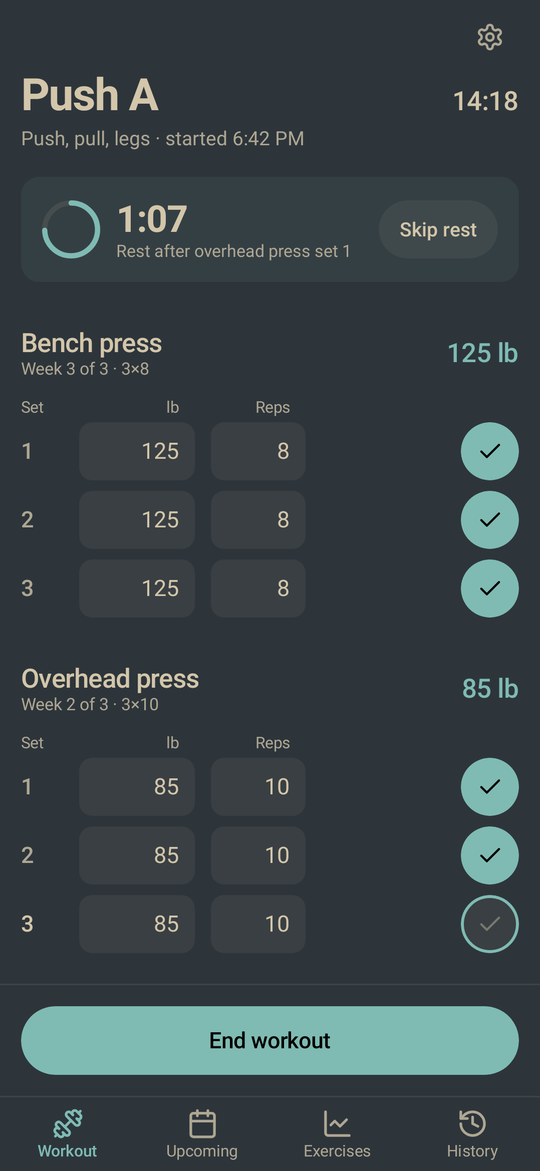
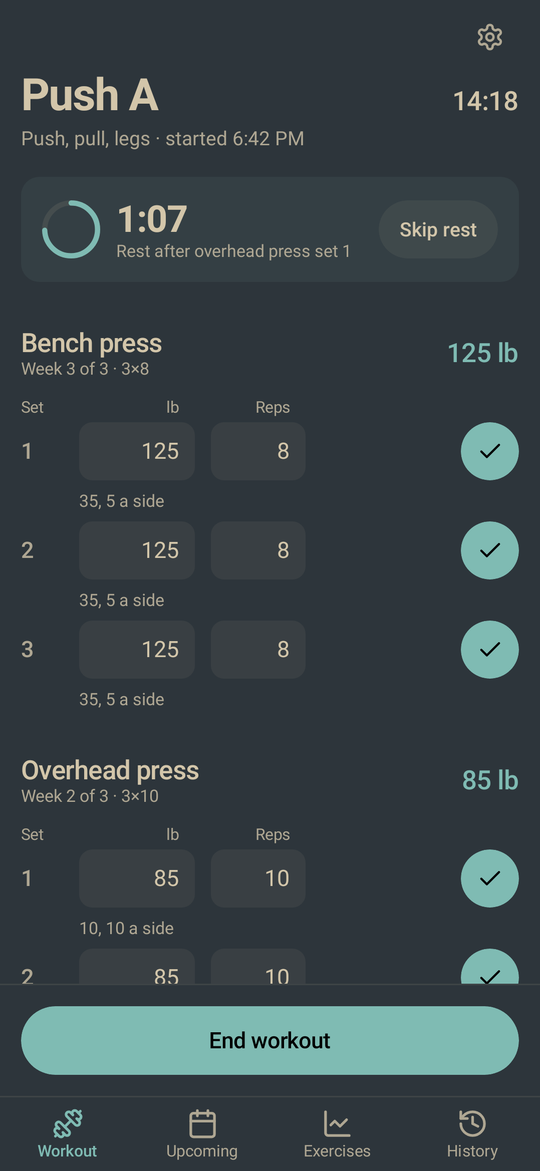
Add plate calculator: bar and plate settings, per-side plates per set, loadable targets
Settings gets a bar weight and pair counts for 55-2.5 lb plates (45 lb bar,
4x45, 35, 25, 2x10, 5, 2.5 by default), stored in device prefs. Barbell lifts
round their shown target to the nearest weight those plates make, and each set
row shows the plates for one side of the weight in its field. Engine state and
the log format are unchanged.

diff --git a/app/src/main/java/dev/gzclp/tracker/ui/Screens.kt b/app/src/main/java/dev/gzclp/tracker/ui/Screens.kt
@@ -54,7 +54,9 @@ import androidx.compose.ui.text.input.ImeAction
 import androidx.compose.ui.text.input.KeyboardType
 import androidx.compose.ui.text.style.TextAlign
 import androidx.compose.ui.unit.dp
+import dev.gzclp.tracker.engine.Catalog
 import dev.gzclp.tracker.engine.Lift
+import dev.gzclp.tracker.engine.Plates
 import dev.gzclp.tracker.engine.Progression
 import dev.gzclp.tracker.engine.Cycle
 import dev.gzclp.tracker.engine.Programs
@@ -196,7 +198,7 @@ fun Exercise.detail(): String =
 fun HomeScreen(state: AppState, onStart: () -> Unit, onSettings: () -> Unit, onEditWeight: (Exercise) -> Unit) {
     val p = LocalPalette.current
     val day = state.nextDay
-    val exercises = state.exercises(day)
+    val exercises = state.exercises(day).map(LocalPlates.current::prescribe)
     val missing = exercises.count { it.weight == null }
     ScreenFrame(bottom = {
         BottomBar { PillButton("Start workout", onStart, Modifier.weight(1f), primary = true) }
@@ -259,7 +261,7 @@ fun WorkoutScreen(
         ) {
             if (rest != null) RestCard(rest, onSkipRest, Modifier.padding(top = Space.xl))
         }
-        val exercises = state.exercises(a.program, a.day)
+        val exercises = state.exercises(a.program, a.day).map(LocalPlates.current::prescribe)
         val next = exercises.firstNotNullOfOrNull { ex -> (1..ex.scheme.sets).map { SetKey(ex.id, ex.tier, it) }.firstOrNull { it !in a.sets } }
         exercises.forEach { ex ->
             Spacer(Modifier.height(Space.x3))
@@ -322,8 +324,9 @@ private fun ExerciseBlock(
         Txt("Reps", Type.caption, Modifier.width(REPS_COL).padding(end = Space.md), p.fg2, align = TextAlign.End)
     }
     Column(verticalArrangement = Arrangement.spacedBy(Space.sm)) {
-        if (warmups && ex.tier == Tier.T1) Warmup.sets(ex.weight ?: 0).forEachIndexed { i, (w, r) ->
-            WarmupRow(state.active?.id.orEmpty(), "${ex.name} warm-up ${i + 1}", w, r)
+        val plates = LocalPlates.current
+        if (warmups && ex.tier == Tier.T1) Warmup.sets(ex.weight ?: 0).map { (w, r) -> plates.round(w) to r }.distinctBy { it.first }.forEachIndexed { i, (w, r) ->
+            WarmupRow(state.active?.id.orEmpty(), "${ex.name} warm-up ${i + 1}", w, r, plates)
         }
         for (i in 1..ex.scheme.sets) {
             val key = SetKey(ex.id, ex.tier, i)
@@ -335,6 +338,7 @@ private fun ExerciseBlock(
                 logged = sets[key]?.event,
                 current = next == key,
                 exName = ex.name,
+                plates = plates.takeIf { ex.id in Catalog.barbell },
                 onLog = { w, r -> onLog(ex, i, w, r) },
                 onClear = { onClear(ex, i) },
             )
@@ -356,6 +360,7 @@ fun SetRow(
     logged: SetLogged?,
     current: Boolean,
     exName: String,
+    plates: Plates?,
     onLog: (weight: Int, reps: Int) -> Unit,
     onClear: () -> Unit,
 ) {
@@ -395,11 +400,12 @@ fun SetRow(
             Icon(Icons.check, if (hit) p.onAccent else if (short) p.red else p.fg3, 20.dp)
         }
     }
+    if (plates != null) Txt(plates.perSideLabel(weight()) ?: "Not loadable with your plates", Type.footnote.tabular(), Modifier.padding(start = SET_COL + Space.md), p.fg2, maxLines = 1)
 }
 
 /** A warm-up: fixed weight and reps, and a check that only lives on screen (never logged). */
 @Composable
-private fun WarmupRow(sessionId: String, name: String, weight: Int, reps: Int) {
+private fun WarmupRow(sessionId: String, name: String, weight: Int, reps: Int, plates: Plates) {
     val p = LocalPalette.current
     var done by rememberSaveable(sessionId) { mutableStateOf(false) }
     Row(Modifier.fillMaxWidth(), verticalAlignment = Alignment.CenterVertically, horizontalArrangement = Arrangement.spacedBy(Space.md)) {
@@ -415,6 +421,7 @@ private fun WarmupRow(sessionId: String, name: String, weight: Int, reps: Int) {
             Icon(Icons.check, if (done) p.accent else p.fg3, 20.dp)
         }
     }
+    plates.perSideLabel(weight)?.let { Txt(it, Type.footnote.tabular(), Modifier.padding(start = SET_COL + Space.md), p.fg3, maxLines = 1) }
 }
 
 fun restLabel(ex: Exercise, setIndex: Int): String =

diff --git a/app/src/main/java/dev/gzclp/tracker/ui/Settings.kt b/app/src/main/java/dev/gzclp/tracker/ui/Settings.kt
@@ -13,6 +13,7 @@ import androidx.compose.ui.Alignment
 import androidx.compose.ui.Modifier
 import androidx.compose.ui.unit.dp
 import dev.gzclp.tracker.engine.Increments
+import dev.gzclp.tracker.engine.Plates
 import dev.gzclp.tracker.engine.ProgramDay
 import dev.gzclp.tracker.engine.Slot
 import dev.gzclp.tracker.log.Commands
@@ -38,6 +39,7 @@ fun SettingsScreen(
     weighInReminder: Boolean,
     weighInMinutes: Int,
     health: HealthUi,
+    plates: Plates,
     onBack: () -> Unit,
     onTheme: (String) -> Unit,
     onRest: (Tier, Int) -> Unit,
@@ -50,6 +52,7 @@ fun SettingsScreen(
     onWeighInReminder: (Boolean) -> Unit,
     onWeighInTime: (Int) -> Unit,
     onHealthConnect: (Boolean) -> Unit,
+    onPlates: (Plates) -> Unit,
     warmups: Boolean = true,
     onWarmups: (Boolean) -> Unit = {},
 ) {
@@ -88,6 +91,27 @@ fun SettingsScreen(
             }
             GroupFooter("Cycle programs add a step each week: 3×12, then 3×10, then 3×8. Lower body covers squat, deadlift, Romanian deadlift, and leg press; everything else uses the upper body step. After a heavy week with every set at 8 or more, the next cycle starts higher by the next-cycle amount.")
         }
+
+        GroupHeader("Bar and plates")
+        Group {
+            GroupRow(first = true) {
+                Txt("Bar", Type.body, Modifier.weight(1f))
+                MiniStep(Icons.minus, "Lighter bar") { onPlates(plates.copy(bar = (plates.bar - 5).coerceAtLeast(5))) }
+                Txt(Fmt.lb(plates.bar), Type.body.tabular(), Modifier.width(72.dp).padding(horizontal = Space.sm), align = androidx.compose.ui.text.style.TextAlign.Center)
+                MiniStep(Icons.plus, "Heavier bar") { onPlates(plates.copy(bar = (plates.bar + 5).coerceAtMost(100))) }
+            }
+            Plates.SIZES.forEach { size ->
+                val n = plates.pairs[size] ?: 0
+                val name = "${Plates.label(size)} lb"
+                GroupRow(first = false) {
+                    Txt("$name plates", Type.body, Modifier.weight(1f), maxLines = 1)
+                    MiniStep(Icons.minus, "One less pair of $name plates") { onPlates(plates.copy(pairs = plates.pairs + (size to (n - 1).coerceAtLeast(0)))) }
+                    Txt(if (n == 1) "1 pair" else "$n pairs", Type.body.tabular(), Modifier.width(72.dp).padding(horizontal = Space.sm), align = androidx.compose.ui.text.style.TextAlign.Center)
+                    MiniStep(Icons.plus, "One more pair of $name plates") { onPlates(plates.copy(pairs = plates.pairs + (size to (n + 1).coerceAtMost(20)))) }
+                }
+            }
+        }
+        GroupFooter("Barbell lifts round each target to the nearest weight this bar and these plates make, and every set shows the plates for one side.")
 
         GroupHeader("Theme")
         Group {

diff --git a/app/src/main/java/dev/gzclp/tracker/MainActivity.kt b/app/src/main/java/dev/gzclp/tracker/MainActivity.kt
@@ -15,6 +15,7 @@ import androidx.activity.result.contract.ActivityResultContracts
 import androidx.compose.foundation.layout.Box
 import androidx.compose.foundation.layout.fillMaxSize
 import androidx.compose.runtime.Composable
+import androidx.compose.runtime.CompositionLocalProvider
 import androidx.compose.runtime.LaunchedEffect
 import androidx.compose.runtime.collectAsState
 import androidx.compose.runtime.getValue
@@ -46,6 +47,7 @@ import dev.gzclp.tracker.ui.UpcomingScreen
 import dev.gzclp.tracker.ui.GzTheme
 import dev.gzclp.tracker.ui.HistoryScreen
 import dev.gzclp.tracker.ui.HomeScreen
+import dev.gzclp.tracker.ui.LocalPlates
 import dev.gzclp.tracker.ui.SettingsScreen
 import dev.gzclp.tracker.ui.SetupScreen
 import dev.gzclp.tracker.ui.Sheet
@@ -66,7 +68,7 @@ class MainActivity : ComponentActivity() {
                 val style = if (palette.dark) SystemBarStyle.dark(Color.TRANSPARENT) else SystemBarStyle.light(Color.TRANSPARENT, Color.TRANSPARENT)
                 enableEdgeToEdge(style, style)
             }
-            GzTheme(palette) { App(model) }
+            GzTheme(palette) { CompositionLocalProvider(LocalPlates provides model.plates) { App(model) } }
         }
         if (savedInstanceState == null) onNewIntent(intent)
     }
@@ -191,7 +193,7 @@ private fun App(model: AppModel) {
                 started = state.started, programId = state.programId, increments = state.increments,
                 themeId = model.theme, laptop = model.laptop, restTargets = model.restTargets,
                 sync = model.sync.copy(error = model.notice ?: model.sync.error), notificationsAllowed = model.notificationsAllowed,
-                weighInReminder = model.weighInReminder, weighInMinutes = model.weighInMinutes, health = model.health,
+                weighInReminder = model.weighInReminder, weighInMinutes = model.weighInMinutes, health = model.health, plates = model.plates,
                 onBack = { route = null }, onTheme = model::chooseTheme, onRest = model::setRest,
                 onProgram = { id -> model.dispatch { Commands.chooseProgram(it, id) } },
                 onIncrements = { inc -> model.dispatch { Commands.setIncrements(it, inc) } },
@@ -201,7 +203,7 @@ private fun App(model: AppModel) {
                     model.chooseWeighInReminder(it)
                     if (it) requestNotifications()
                 },
-                onWeighInTime = model::chooseWeighInTime,
+                onWeighInTime = model::chooseWeighInTime, onPlates = model::choosePlates,
                 warmups = model.warmups, onWarmups = model::chooseWarmups,
                 onHealthConnect = { on ->
                     val unavailable = if (on) model.healthUnavailable() else null

diff --git a/app/src/test/java/dev/gzclp/tracker/ui/ScreenShots.kt b/app/src/test/java/dev/gzclp/tracker/ui/ScreenShots.kt
@@ -6,6 +6,7 @@ import androidx.compose.runtime.Composable
 import androidx.compose.ui.Modifier
 import com.github.takahirom.roborazzi.captureRoboImage
 import dev.gzclp.tracker.engine.Lift
+import dev.gzclp.tracker.engine.Plates
 import dev.gzclp.tracker.engine.Programs
 import dev.gzclp.tracker.engine.Tier
 import dev.gzclp.tracker.log.AppState
@@ -115,8 +116,8 @@ class ScreenShots {
             }
             for (tall in listOf(false, true)) shot(file, if (tall) "12-settings-full" else "12-settings", tall) {
                 SettingsScreen(
-                    true, idle.programId, idle.increments, LaptopTheme.ID, p, rest, SyncUi("GZCLP", "Fri, Oct 30, 7:42 PM", null), false, true, 7 * 60, HealthUi(true, null),
-                    {}, {}, { _, _ -> }, {}, {}, {}, {}, {}, {}, {}, {}, {},
+                    true, idle.programId, idle.increments, LaptopTheme.ID, p, rest, SyncUi("GZCLP", "Fri, Oct 30, 7:42 PM", null), false, true, 7 * 60, HealthUi(true, null), Plates(),
+                    {}, {}, { _, _ -> }, {}, {}, {}, {}, {}, {}, {}, {}, {}, {},
                 )
             }
         }
@@ -176,14 +177,14 @@ class ScreenShots {
             shot(p, "11-session") { SessionScreen(idle, idle.sessions.last(), {}) }
             shot(p, "12-settings") {
                 SettingsScreen(
-                    true, idle.programId, idle.increments, p.id, null, rest, SyncUi("GZCLP", "Fri, Oct 30, 7:42 PM", null), false, true, 7 * 60, HealthUi(true, null),
-                    {}, {}, { _, _ -> }, {}, {}, {}, {}, {}, {}, {}, {}, {},
+                    true, idle.programId, idle.increments, p.id, null, rest, SyncUi("GZCLP", "Fri, Oct 30, 7:42 PM", null), false, true, 7 * 60, HealthUi(true, null), Plates(),
+                    {}, {}, { _, _ -> }, {}, {}, {}, {}, {}, {}, {}, {}, {}, {},
                 )
             }
             shot(p, "12-settings-full", tall = true) {
                 SettingsScreen(
-                    true, idle.programId, idle.increments, p.id, null, rest, SyncUi("GZCLP", "Fri, Oct 30, 7:42 PM", null), false, true, 7 * 60, HealthUi(true, null),
-                    {}, {}, { _, _ -> }, {}, {}, {}, {}, {}, {}, {}, {}, {},
+                    true, idle.programId, idle.increments, p.id, null, rest, SyncUi("GZCLP", "Fri, Oct 30, 7:42 PM", null), false, true, 7 * 60, HealthUi(true, null), Plates(),
+                    {}, {}, { _, _ -> }, {}, {}, {}, {}, {}, {}, {}, {}, {}, {},
                 )
             }
             shot(p, "13-days") { DaysScreen(idle, {}, {}, { _, _ -> }) }

diff --git a/app/src/main/java/dev/gzclp/tracker/engine/Plates.kt b/app/src/main/java/dev/gzclp/tracker/engine/Plates.kt
@@ -1,0 +1,42 @@
+package dev.gzclp.tracker.engine
+
+import kotlin.math.abs
+import kotlin.math.roundToInt
+
+/** A barbell and the plates on hand, in lb. [pairs] maps each plate size in [Plates.SIZES] to how many pairs you have. */
+data class Plates(val bar: Int = 45, val pairs: Map<Double, Int> = DEFAULT) {
+    /** Every loadable total, mapped to the fewest plates per side that make it, heaviest plates first. */
+    private val loads: Map<Int, List<Double>> by lazy {
+        var best = mapOf(bar to emptyList<Double>())
+        for (size in SIZES) repeat(pairs[size] ?: 0) {
+            val next = best.toMutableMap()
+            for ((total, side) in best) {
+                val t = total + (size * 2).roundToInt()
+                val load = side + size
+                val have = next[t]
+                if (have == null || load.size < have.size || load.size == have.size && heavier(load, have)) next[t] = load
+            }
+            best = next
+        }
+        best
+    }
+
+    /** The loadable total nearest [target]; a tie goes to the lighter one. */
+    fun round(target: Int): Int = loads.keys.minWith(compareBy({ abs(it - target) }, { it }))
+
+    /** Plates for one side, heaviest first, or null when [total] can't be loaded. */
+    fun perSide(total: Int): List<Double>? = loads[total]
+
+    companion object {
+        /** Standard lb plates. Every size is a multiple of 2.5, so with a bar in 5 lb steps every total is a whole lb. */
+        val SIZES = listOf(55.0, 45.0, 35.0, 25.0, 15.0, 10.0, 5.0, 2.5)
+        val DEFAULT = mapOf(55.0 to 0, 45.0 to 4, 35.0 to 1, 25.0 to 1, 15.0 to 0, 10.0 to 2, 5.0 to 1, 2.5 to 1)
+
+        /** 45, 2.5. */
+        fun label(size: Double): String = if (size % 1.0 == 0.0) size.toInt().toString() else size.toString()
+
+        /** Both lists sorted heaviest first: true when [a] uses heavier plates at the first place they differ. */
+        private fun heavier(a: List<Double>, b: List<Double>): Boolean =
+            a.zip(b).firstOrNull { (x, y) -> x != y }?.let { (x, y) -> x > y } ?: false
+    }
+}

diff --git a/app/src/test/java/dev/gzclp/tracker/engine/PlatesTest.kt b/app/src/test/java/dev/gzclp/tracker/engine/PlatesTest.kt
@@ -1,0 +1,44 @@
+package dev.gzclp.tracker.engine
+
+import org.junit.Assert.assertEquals
+import org.junit.Assert.assertNull
+import org.junit.Test
+
+class PlatesTest {
+    private val gym = Plates()
+
+    @Test fun perSideUsesHeaviestPlatesFirst() {
+        assertEquals(emptyList<Double>(), gym.perSide(45))
+        assertEquals(listOf(45.0), gym.perSide(135))
+        assertEquals(listOf(45.0, 45.0, 10.0, 2.5), gym.perSide(250))
+        assertEquals(listOf(45.0, 45.0, 45.0, 45.0, 35.0, 25.0, 10.0, 10.0, 5.0, 2.5), gym.perSide(580))
+    }
+
+    @Test fun everyFiveLbStepIsLoadableWithTheDefaults() {
+        for (w in 45..580 step 5) assertEquals("$w lb", w, gym.round(w))
+    }
+
+    @Test fun targetsRoundToTheNearestLoadableWeight() {
+        assertEquals(45, gym.round(35)) // below the bar
+        assertEquals(580, gym.round(700)) // past the plates on hand
+        assertNull(gym.perSide(137))
+        assertEquals(135, gym.round(137))
+        val noSmalls = Plates(pairs = mapOf(45.0 to 2, 10.0 to 1))
+        assertEquals(135, noSmalls.round(140)) // tie between 135 and 145 goes lighter
+        assertEquals(155, noSmalls.round(150 + 3))
+    }
+
+    @Test fun findsALoadGreedyWouldMiss() {
+        // 50 a side: greedy takes a 45 and is stuck; two 25s work.
+        val p = Plates(pairs = mapOf(45.0 to 1, 25.0 to 2))
+        assertEquals(listOf(25.0, 25.0), p.perSide(145))
+        // With a 5 on hand too, the conventional 45 + 5 wins the tie on plate count.
+        assertEquals(listOf(45.0, 5.0), Plates(pairs = mapOf(45.0 to 1, 25.0 to 2, 5.0 to 1)).perSide(145))
+    }
+
+    @Test fun barWeightShiftsEveryLoad() {
+        val p = Plates(bar = 35)
+        assertEquals(listOf(45.0), p.perSide(125))
+        assertEquals(35, p.round(20))
+    }
+}

diff --git a/app/src/main/java/dev/gzclp/tracker/AppModel.kt b/app/src/main/java/dev/gzclp/tracker/AppModel.kt
@@ -10,6 +10,7 @@ import androidx.compose.runtime.mutableStateOf
 import androidx.compose.runtime.setValue
 import androidx.health.connect.client.HealthConnectClient
 import androidx.health.connect.client.records.WeightRecord
+import dev.gzclp.tracker.engine.Plates
 import dev.gzclp.tracker.engine.Tier
 import dev.gzclp.tracker.health.HealthRecords
 import dev.gzclp.tracker.log.AppState
@@ -51,6 +52,8 @@ class AppModel private constructor(private val context: Context) {
         private set
     val palette: Palette get() = if (theme == LaptopTheme.ID) laptop ?: Palettes.jade else Palettes.of(theme)
     var restTargets by mutableStateOf(prefs.restTargets())
+        private set
+    var plates by mutableStateOf(prefs.plates)
         private set
     var sync by mutableStateOf(syncUi())
         private set
@@ -158,6 +161,11 @@ class AppModel private constructor(private val context: Context) {
     fun chooseWarmups(on: Boolean) {
         prefs.warmups = on
         warmups = on
+    }
+
+    fun choosePlates(v: Plates) {
+        prefs.plates = v
+        plates = v
     }
 
     fun chooseWeighInReminder(on: Boolean) {

diff --git a/app/src/main/java/dev/gzclp/tracker/Prefs.kt b/app/src/main/java/dev/gzclp/tracker/Prefs.kt
@@ -1,6 +1,7 @@
 package dev.gzclp.tracker
 
 import android.content.Context
+import dev.gzclp.tracker.engine.Plates
 import dev.gzclp.tracker.engine.Tier
 
 /** Device-local settings. Program data never lives here; it lives in the log. */
@@ -51,6 +52,14 @@ class Prefs(context: Context) {
     var warmups: Boolean
         get() = p.getBoolean("warmups", true)
         set(v) = p.edit().putBoolean("warmups", v).apply()
+
+    var plates: Plates
+        get() = Plates(p.getInt("plate_bar", 45), Plates.SIZES.associateWith { p.getInt("plate_pairs_${Plates.label(it)}", Plates.DEFAULT.getValue(it)) })
+        set(v) {
+            val e = p.edit().putInt("plate_bar", v.bar)
+            v.pairs.forEach { (size, n) -> e.putInt("plate_pairs_${Plates.label(size)}", n) }
+            e.apply()
+        }
 
     var weighInReminder: Boolean
         get() = p.getBoolean("weigh_in_reminder", true)

diff --git a/app/src/main/java/dev/gzclp/tracker/ui/Plates.kt b/app/src/main/java/dev/gzclp/tracker/ui/Plates.kt
@@ -1,0 +1,18 @@
+package dev.gzclp.tracker.ui
+
+import androidx.compose.runtime.staticCompositionLocalOf
+import dev.gzclp.tracker.engine.Catalog
+import dev.gzclp.tracker.engine.Plates
+import dev.gzclp.tracker.log.Exercise
+
+/** The bar and plates set in Settings. */
+val LocalPlates = staticCompositionLocalOf { Plates() }
+
+/** The prescription as loaded: a barbell lift's target rounds to the nearest weight the plates make. The log keeps the engine's weight. */
+fun Plates.prescribe(ex: Exercise): Exercise =
+    if (ex.id in Catalog.barbell && ex.weight != null) ex.copy(weight = round(ex.weight)) else ex
+
+/** "45, 25, 2.5 a side", "Empty bar", or null when the plates can't make [total]. */
+fun Plates.perSideLabel(total: Int): String? = perSide(total)?.let { side ->
+    if (side.isEmpty()) "Empty bar" else side.joinToString(", ", postfix = " a side") { Plates.label(it) }
+}

diff --git a/app/src/main/java/dev/gzclp/tracker/ui/Upcoming.kt b/app/src/main/java/dev/gzclp/tracker/ui/Upcoming.kt
@@ -46,7 +46,7 @@ fun UpcomingScreen(state: AppState, today: LocalDate, onOpenSession: (String) ->
             }
             GroupHeader(day.title + tag)
             Group {
-                exercises.forEachIndexed { i, ex ->
+                exercises.map(LocalPlates.current::prescribe).forEachIndexed { i, ex ->
                     GroupRow(first = i == 0) {
                         Txt(ex.name, Type.body, Modifier.weight(1f), maxLines = 1)
                         Txt(ex.scheme.display, Type.body.tabular(), Modifier.padding(start = Space.sm), p.fg2)

diff --git a/app/src/main/java/dev/gzclp/tracker/engine/Programs.kt b/app/src/main/java/dev/gzclp/tracker/engine/Programs.kt
@@ -28,6 +28,9 @@ object Catalog {
         Move("leg_extension", "Leg extension"),
         Move("calf_raise", "Calf raise"),
     )
+
+    /** Exercises loaded on a barbell: their targets round to what the plates make, and each set shows its plates. */
+    val barbell = setOf("squat", "bench", "deadlift", "ohp", "barbell_row", "barbell_curl", "romanian_deadlift")
 }
 
 /** One exercise slot in a program day. Cycle programs use [Tier.CYCLE] for every slot. */

diff --git a/README.md b/README.md
@@ -54,7 +54,7 @@ After a reinstall, tap Restore log on the first screen and pick the same folder.
 
 To send workouts and weigh-ins to Health Connect, turn on Health Connect in Settings and allow access. From then on, each finished workout becomes a strength-training session (one segment per set with its reps, every set's weight in the notes) and each weigh-in becomes a weight record; editing or deleting a weigh-in updates Health Connect too. The app only writes and never reads. Workouts and weigh-ins from before you turned it on are not sent. Without Health Connect, or with access denied, everything else works the same.
 
-In Settings you can switch programs (history and each exercise's progress carry over), add or remove exercises per workout, and change the cycle steps (5 lb upper body, 10 lb lower body, 5 lb per new cycle by default).
+In Settings you can switch programs (history and each exercise's progress carry over), add or remove exercises per workout, and change the cycle steps (5 lb upper body, 10 lb lower body, 5 lb per new cycle by default), and set your bar and plates (a 45 lb bar; pairs of 45, 35, 25, 10, 5, and 2.5 lb plates by default). Barbell lifts round each target to the nearest weight those plates make, and every set shows the plates for one side. Progression still counts from the program's own weight.
 
 Version 2 reads only version 2 logs. On first launch it sets an older local log aside as `gzclp-log.jsonl.old`; uninstall first for a clean start.
 
